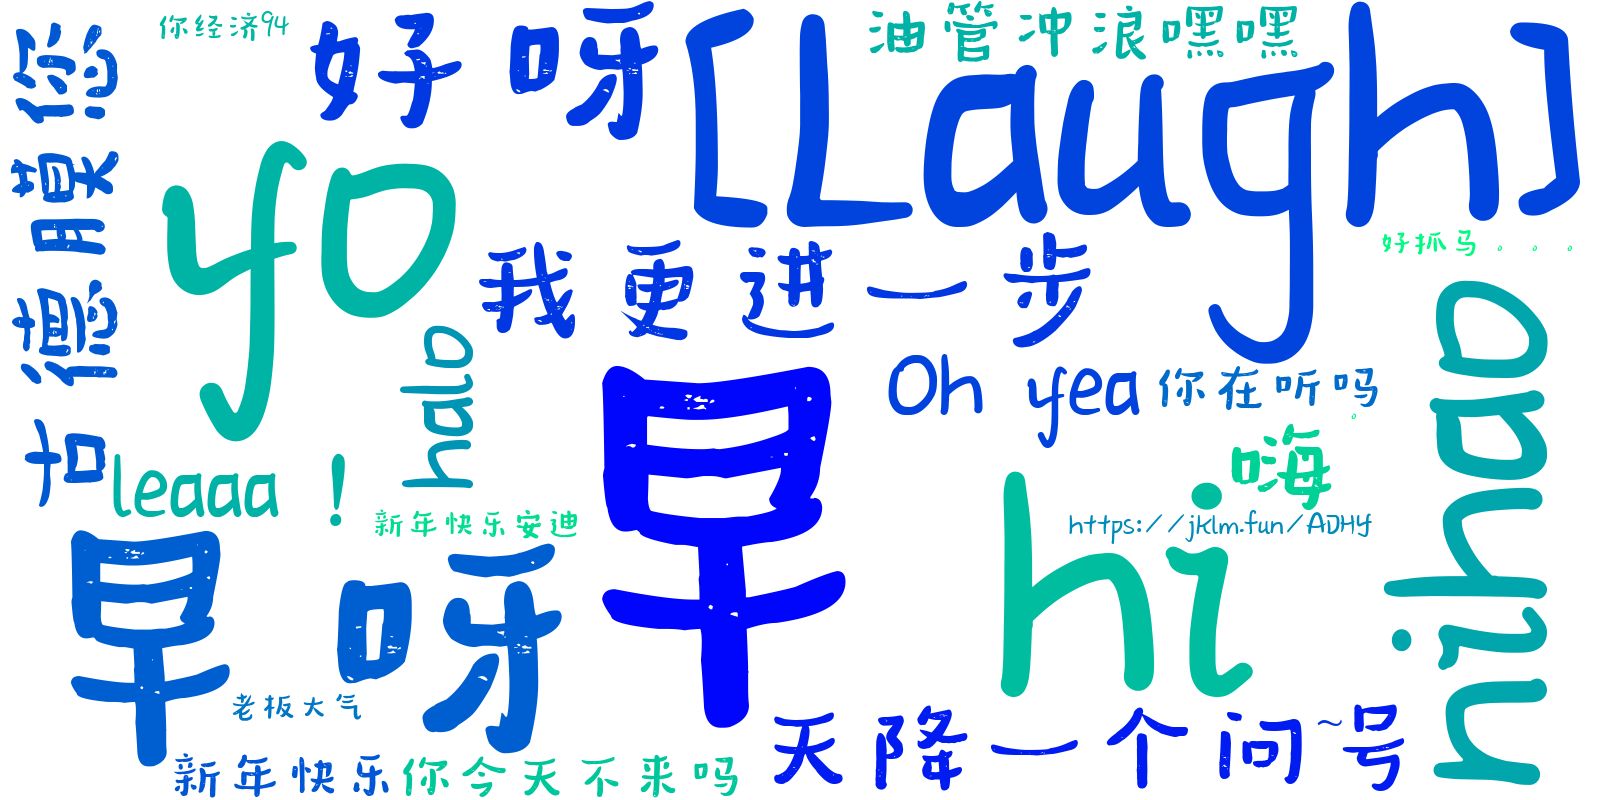
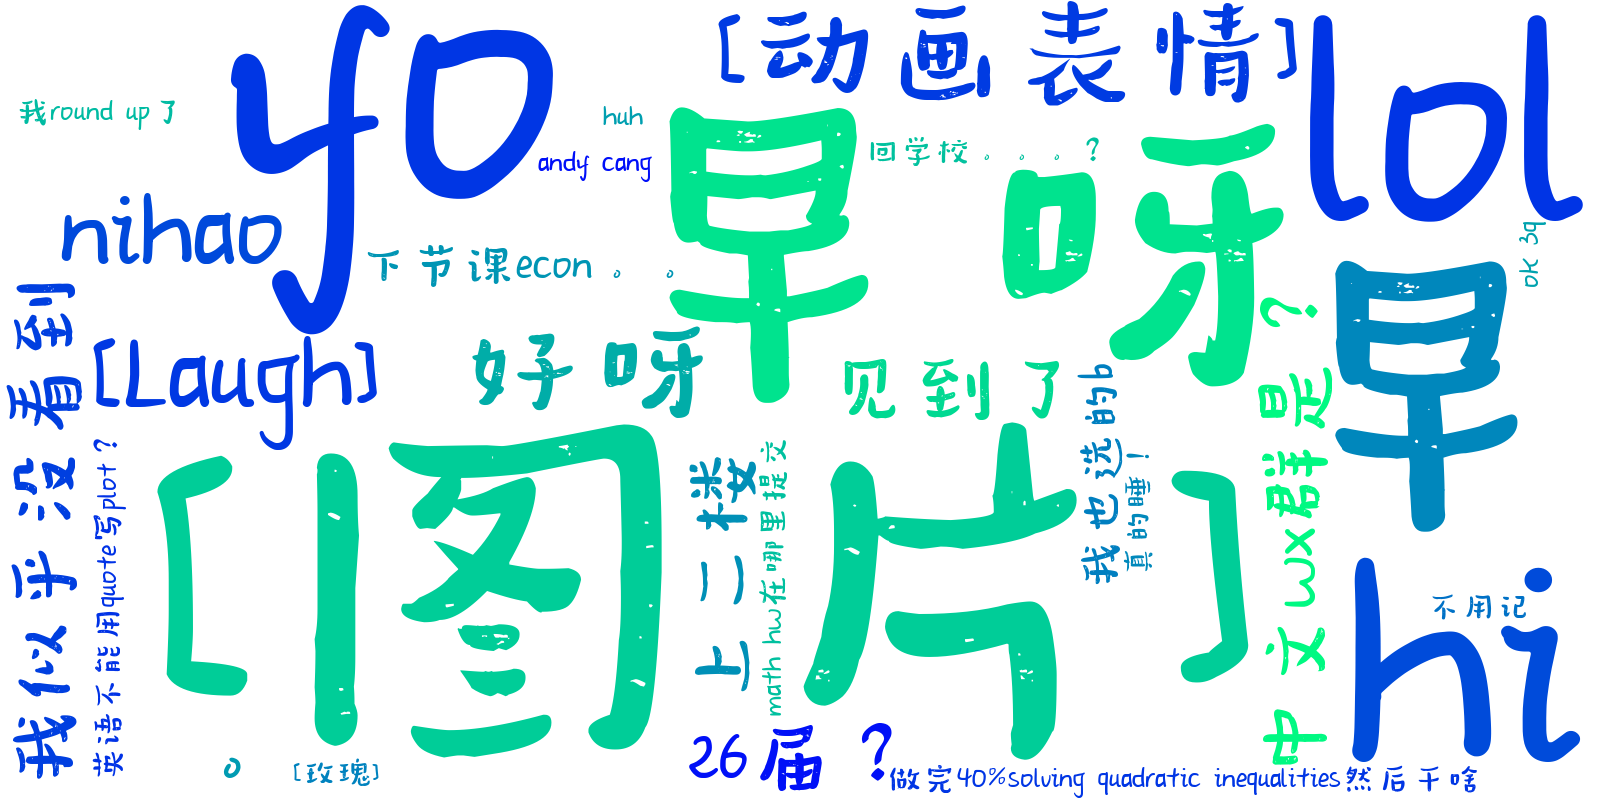
Update sample output, upload some other filesssss

diff --git a/test.py b/test.py
@@ -1,0 +1,117 @@
+import os
+import csv
+
+daily_msg = {'Andy': {'2023-05-19': 37, '2023-05-18': 55, '2023-05-17': 51}, '小狐狸🦊': {'2023-05-19': 34, '2023-05-18': 46, '2023-05-17': 54}}
+overall_msg = {'Andy': 143, '小狐狸🦊': 134}
+daily_avg_msg = {'Andy': 47.666666666666664, '小狐狸🦊': 44.666666666666664}
+avg_words_per_msg = {'Andy': 3.5314685314685317, '小狐狸🦊': 4.402985074626866}
+total_photos = {'Andy': 4, '小狐狸🦊': 4}
+total_hourly_msg = {'Andy': {0: 0, 1: 0, 2: 0, 3: 0, 4: 0, 5: 0, 6: 0, 7: 0, 8: 31, 9: 0, 10: 0, 11: 0, 12: 2, 13: 0, 14: 4, 15: 0, 16: 0, 17: 0, 18: 0, 19: 0, 20: 0, 21: 0, 22: 0, 23: 0}, '小狐狸🦊': {0: 0, 1: 0, 2: 0, 3: 0, 4: 0, 5: 0, 6: 0, 7: 0, 8: 31, 9: 0, 10: 0, 11: 0, 12: 0, 13: 0, 14: 3, 15: 0, 16: 0, 17: 0, 18: 0, 19: 0, 20: 0, 21: 0, 22: 0, 23: 0}}
+avg_hourly_msg = {'Andy': {0: 0.0, 1: 0.0, 2: 0.0, 3: 0.0, 4: 0.0, 5: 0.0, 6: 0.0, 7: 0.0, 8: 10.333333333333334, 9: 0.0, 10: 0.0, 11: 0.0, 12: 0.6666666666666666, 13: 0.0, 14: 1.3333333333333333, 15: 0.0, 16: 0.0, 17: 0.0, 18: 0.0, 19: 0.0, 20: 0.0, 21: 0.0, 22: 0.0, 23: 0.0}, '小狐狸🦊': {0: 0.0, 1: 0.0, 2: 0.0, 3: 0.0, 4: 0.0, 5: 0.0, 6: 0.0, 7: 0.0, 8: 10.333333333333334, 9: 0.0, 10: 0.0, 11: 0.0, 12: 0.0, 13: 0.0, 14: 1.0, 15: 0.0, 16: 0.0, 17: 0.0, 18: 0.0, 19: 0.0, 20: 0.0, 21: 0.0, 22: 0.0, 23: 0.0}}
+avg_reply_time = {'小狐狸🦊': 1.2222222222222223, 'Andy': 0.2777777777777778}
+
+if not os.path.isdir("data"):
+    os.mkdir("data")
+
+with open("data/daily_msg.csv", 'w', encoding='utf-8-sig', newline='') as file:
+    writer = csv.writer(file)
+    headers = []
+    for x in list(daily_msg.keys()):
+        headers.append(f"by {x}, x")
+        headers.append(f"by {x}, y")
+    writer.writerow(headers)
+
+    proc_msg = []
+    people = list(daily_msg.values())
+    for x in list(people[0].keys()):
+        date_list = []
+        for person in people:
+            date_list.append(x)
+            date_list.append(person[x])
+        proc_msg.append(date_list)
+
+    for row in proc_msg:
+        writer.writerow(row)
+
+with open("data/overall_msg.csv", 'w', encoding='utf-8-sig', newline='') as file:
+    writer = csv.writer(file)
+    headers = []
+    headers.append("Variable")
+    for x in list(overall_msg.keys()):
+        headers.append(f"Sent by {x}")
+
+    proc_msg = []
+
+    total_messages = []
+    total_messages.append("Total Messages")
+    for x in list(overall_msg.values()):
+        total_messages.append(x)
+    proc_msg.append(total_messages)
+
+    msg_per_day = []
+    msg_per_day.append("Msg/Day")
+    for x in list(daily_avg_msg.values()):
+        msg_per_day.append(x)
+    proc_msg.append(msg_per_day)
+
+    awpm = []
+    awpm.append("Msg/Day")
+    for x in list(avg_words_per_msg.values()):
+        awpm.append(x)
+    proc_msg.append(awpm)
+
+    pv = []
+    pv.append("Photos/Videos")
+    for x in list(total_photos.values()):
+        pv.append(x)
+    proc_msg.append(pv)
+
+    rp = []
+    rp.append("Avg. Reply Time")
+    for x in list(avg_reply_time.values()):
+        rp.append(x)
+    proc_msg.append(rp)
+
+    writer.writerow(headers)
+    for row in proc_msg:
+        writer.writerow(row)
+
+with open("data/total_hourly_msg.csv", 'w', encoding='utf-8-sig', newline='') as file:
+    writer = csv.writer(file)
+    headers = []
+    headers.append(f"Time of Day")
+    for x in list(daily_msg.keys()):
+        headers.append(f"by {x}, y")
+    writer.writerow(headers)
+
+    proc_msg = []
+    people = list(total_hourly_msg.values())
+    for x in list(people[0].keys()):
+        time_list = []
+        time_list.append(x)
+        for person in people:
+            time_list.append(person[x])
+        proc_msg.append(time_list)
+
+    for row in proc_msg:
+        writer.writerow(row)
+
+with open("data/avg_hourly_msg.csv", 'w', encoding='utf-8-sig', newline='') as file:
+    writer = csv.writer(file)
+    headers = []
+    headers.append(f"Time of Day")
+    for x in list(daily_msg.keys()):
+        headers.append(f"by {x}, y")
+    writer.writerow(headers)
+
+    proc_msg = []
+    people = list(avg_hourly_msg.values())
+    for x in list(people[0].keys()):
+        time_list = []
+        time_list.append(x)
+        for person in people:
+            time_list.append(person[x])
+        proc_msg.append(time_list)
+
+    for row in proc_msg:
+        writer.writerow(row)

diff --git a/dataminer.py b/dataminer.py
@@ -134,7 +134,7 @@ for i in range(len(data)-1, -1, -1):
     date = message[0]
     month = int(date.split('-')[1])
     author = message[2]
-    msg = message[3]
+    msg = ' '.join(message[3].splitlines())
     if date not in first_msg:
         first_msg[date] = author
         if author in total_first_msg:
@@ -303,10 +303,10 @@ with open("data/avg_hourly_msg.csv", 'w', encoding='utf-8-sig', newline='') as f
     for row in proc_msg:
         writer.writerow(row)
 
-wordcloud = WordCloud(width=1600, height=800, font_path='HanyiSentyRubber.ttf', colormap='winter',relative_scaling = 0.69,min_font_size=10, background_color="white").generate_from_frequencies(first_msg_contents)
+wordcloud = WordCloud(width=1600, height=800, font_path='HanyiSentyRubber.ttf',relative_scaling = 0.69, colormap='winter',min_font_size=10, background_color="white").generate_from_frequencies(first_msg_contents)
 wordcloud.to_file("data/first_msg_contents.png")
 
-wordcloud = WordCloud(width=1600, height=800, font_path='HanyiSentyRubber.ttf', colormap='winter',relative_scaling = 0.69,min_font_size=10,background_color="white").generate_from_frequencies(all_word_freq)
+wordcloud = WordCloud(width=1600, height=800, font_path='HanyiSentyRubber.ttf', colormap='winter',min_font_size=7,background_color="white").generate_from_frequencies(all_word_freq)
 wordcloud.to_file("data/all_msg_contents.png")
 
 color_scheme = ["#003f5c","#bc5090","#ffa600", "#58508d"]

diff --git a/plottest.py b/plottest.py
@@ -1,0 +1,6 @@
+import plotly.graph_objects as go
+fig = go.Figure(
+    data=[go.Bar(y=[2, 1, 3])],
+    layout_title_text="A Figure Displayed with fig.show()"
+)
+fig.show()

diff --git a/mindful.py b/mindful.py
@@ -8,7 +8,7 @@ import csv
 
 # Variables
 CHATNAME = "小狐狸🦊"
-SCROLLS = 5000
+SCROLLS = 500
 
 # Classes
 class RawMessage:

diff --git a/Notes.md b/Notes.md
@@ -1,0 +1,45 @@
+Planned stats
+  - All messages ever sent timeline
+    - Her message count each day
+    - My message count each day
+  - Overall analytics
+    - Total messages for each person
+    - Avg Msg per day
+    - Avg Words per msg
+    - Total photos / Videos
+  - Average hourly messages
+    - Average number of messages for each hour for each person
+  - First messages of the day
+    (Probably inaccurate)
+    - Total of who sent it
+    - Total for each month for each person
+    - What are those first messages (dictionary with num. of times said)
+  - Average reply time
+    - I have very little data for this but I really want to know lol
+  - Sentiment analysis
+  - Cloud visualisation of all the content
+
+
+  class Message():
+      def __init__(self, date, time, author, msg):
+          self.date = date
+          self.time = time
+          self.author = author
+          self.msg = msg
+
+
+{'Andy': {'2023-05-19': 37, '2023-05-18': 55, '2023-05-17': 51}, '小狐狸🦊': {'2023-05-19': 34, '2023-05-18': 46, '2023-05-17': 54}}
+{'Andy': 143, '小狐狸🦊': 134}
+{'Andy': 47.666666666666664, '小狐狸🦊': 44.666666666666664}
+{'Andy': 3.5314685314685317, '小狐狸🦊': 4.402985074626866}
+{'Andy': 4, '小狐狸🦊': 4}
+{'Andy': {0: 0, 1: 0, 2: 0, 3: 0, 4: 0, 5: 0, 6: 0, 7: 0, 8: 31, 9: 0, 10: 0, 11: 0, 12: 2, 13: 0, 14: 4, 15: 0, 16: 0, 17: 0, 18: 0, 19: 0, 20: 0, 21: 0, 22: 0, 23: 0}, '小狐狸🦊': {0: 0, 1: 0, 2: 0, 3: 0, 4: 0, 5: 0, 6: 0, 7: 0, 8: 31, 9: 0, 10: 0, 11: 0, 12: 0, 13: 0, 14: 3, 15: 0, 16: 0, 17: 0, 18: 0, 19: 0, 20: 0, 21: 0, 22: 0, 23: 0}}
+{'Andy': {0: 0.0, 1: 0.0, 2: 0.0, 3: 0.0, 4: 0.0, 5: 0.0, 6: 0.0, 7: 0.0, 8: 10.333333333333334, 9: 0.0, 10: 0.0, 11: 0.0, 12: 0.6666666666666666, 13: 0.0, 14: 1.3333333333333333, 15: 0.0, 16: 0.0, 17: 0.0, 18: 0.0, 19: 0.0, 20: 0.0, 21: 0.0, 22: 0.0, 23: 0.0}, '小狐狸🦊': {0: 0.0, 1: 0.0, 2: 0.0, 3: 0.0, 4: 0.0, 5: 0.0, 6: 0.0, 7: 0.0, 8: 10.333333333333334, 9: 0.0, 10: 0.0, 11: 0.0, 12: 0.0, 13: 0.0, 14: 1.0, 15: 0.0, 16: 0.0, 17: 0.0, 18: 0.0, 19: 0.0, 20: 0.0, 21: 0.0, 22: 0.0, 23: 0.0}}
+{'Andy': 3, '小狐狸🦊': 3}
+['Andy', '小狐狸🦊']
+{'2023-05-17': 'Andy', '2023-05-18': '小狐狸🦊', '2023-05-19': 'Andy'}
+{'Andy': 2, '小狐狸🦊': 1}
+{'Andy': {5: 2}, '小狐狸🦊': {5: 1}}
+{'james的': 1, '？': 1, '好呀': 1}
+{'小狐狸🦊': 18, 'Andy': 18}
+{'小狐狸🦊': 1.2222222222222223, 'Andy': 0.2777777777777778}
